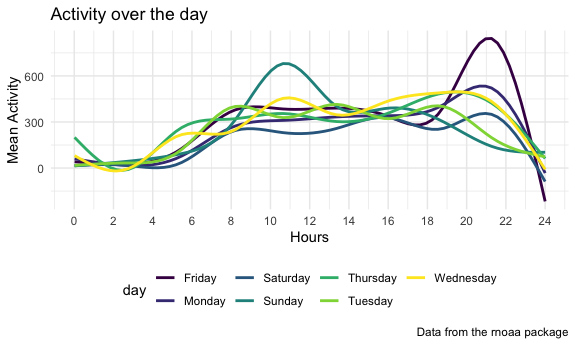
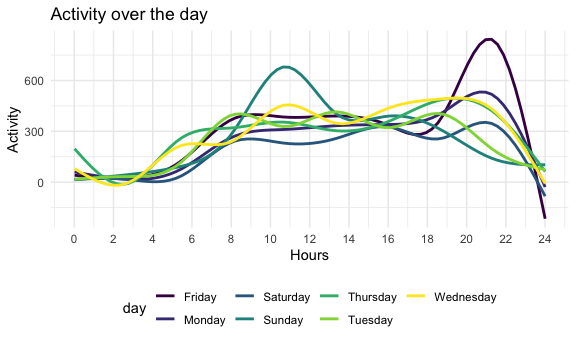
Revised

diff --git a/p8105_hw3_zz2899.md b/p8105_hw3_zz2899.md
@@ -125,21 +125,21 @@ package_vegetable_fruits<-
 
 #Make a table
 bind_rows(baking_ingredients, dog_food_care, package_vegetable_fruits)%>%
-  select(aisle, everything())%>% 
+  select(product_name, aisle, everything())%>% 
   knitr::kable()
 ```
 
-| aisle                      | product\_name                                 | number\_ordered |
-|:---------------------------|:----------------------------------------------|----------------:|
-| baking ingredients         | Cane Sugar                                    |             336 |
-| baking ingredients         | Pure Baking Soda                              |             387 |
-| baking ingredients         | Light Brown Sugar                             |             499 |
-| dog food care              | Small Dog Biscuits                            |              26 |
-| dog food care              | Organix Chicken & Brown Rice Recipe           |              28 |
-| dog food care              | Snack Sticks Chicken & Rice Recipe Dog Treats |              30 |
-| packaged vegetables fruits | Organic Blueberries                           |            4966 |
-| packaged vegetables fruits | Organic Raspberries                           |            5546 |
-| packaged vegetables fruits | Organic Baby Spinach                          |            9784 |
+| product\_name                                 | aisle                      | number\_ordered |
+|:----------------------------------------------|:---------------------------|----------------:|
+| Cane Sugar                                    | baking ingredients         |             336 |
+| Pure Baking Soda                              | baking ingredients         |             387 |
+| Light Brown Sugar                             | baking ingredients         |             499 |
+| Small Dog Biscuits                            | dog food care              |              26 |
+| Organix Chicken & Brown Rice Recipe           | dog food care              |              28 |
+| Snack Sticks Chicken & Rice Recipe Dog Treats | dog food care              |              30 |
+| Organic Blueberries                           | packaged vegetables fruits |            4966 |
+| Organic Raspberries                           | packaged vegetables fruits |            5546 |
+| Organic Baby Spinach                          | packaged vegetables fruits |            9784 |
 
 Number of orders of top three most popular items of the aisle “packaged
 vegetables fruits” is much higher than that of “baking ingredients” and
@@ -416,9 +416,7 @@ graph.
 
 ``` r
 accel_data%>%
-  group_by(activity_counts, day)%>%
-  summarize(mean_activity = mean(activity))%>%
-  ggplot(aes(x = activity_counts, y = mean_activity, color = day, fill = day))+
+  ggplot(aes(x = activity_counts, y = activity, color = day, fill = day))+
   geom_smooth(se = FALSE) +
   scale_x_continuous(
     breaks = c(0, 120, 240, 360, 480, 600, 720, 840, 960, 1080, 1200, 1320, 1440), 
@@ -427,10 +425,11 @@ accel_data%>%
   labs(
     title = "Activity over the day",
     x = "Hours",
-    y = "Mean Activity",
-    caption = "Data from the rnoaa package")
+    y = "Activity")
 ```
 
 <img src="p8105_hw3_zz2899_files/figure-gfm/unnamed-chunk-13-1.png" width="90%" />
 
-Activities are often lower before 6 am and after 11pm.
+Activities are often lower before 6 am and after 11pm. In general,
+activities at Sunday moon are higher than other days; activities at
+Friday night are higher than other days.
